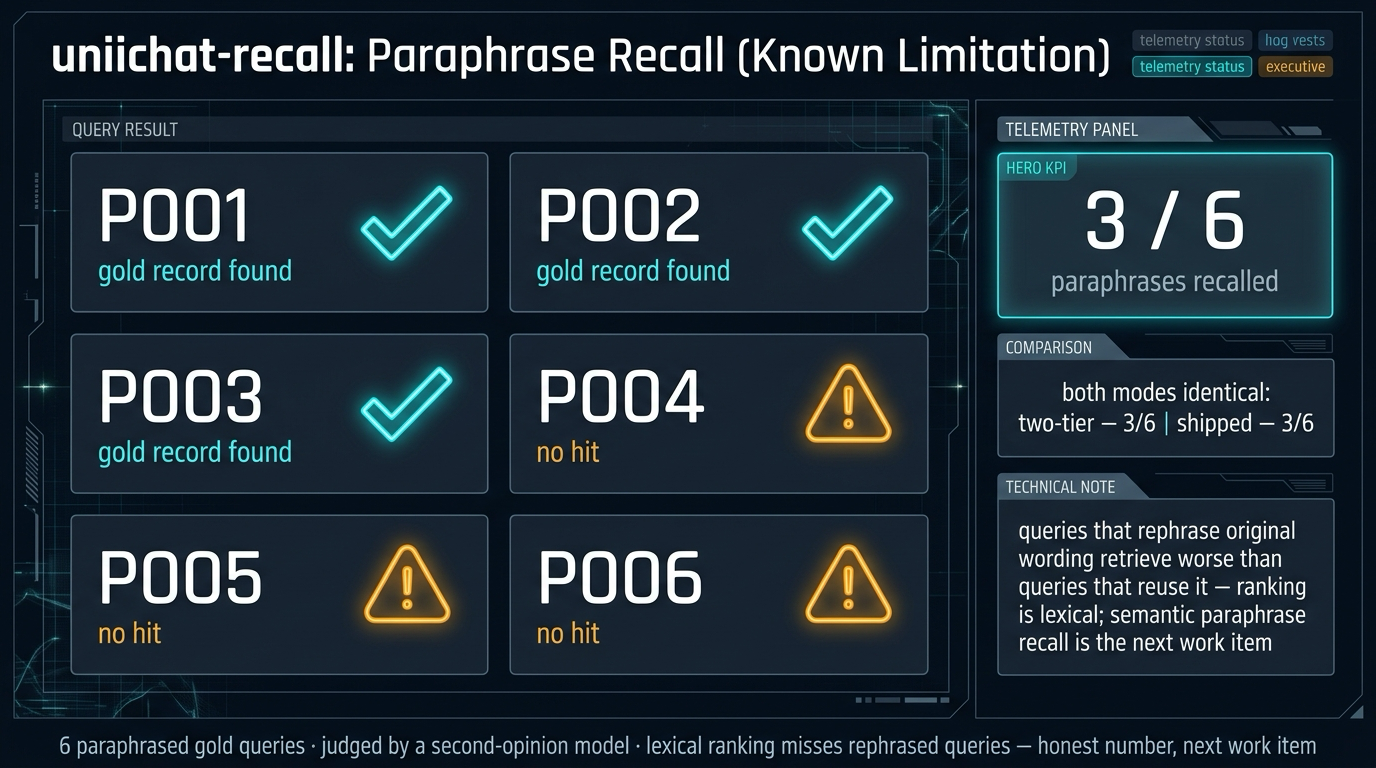
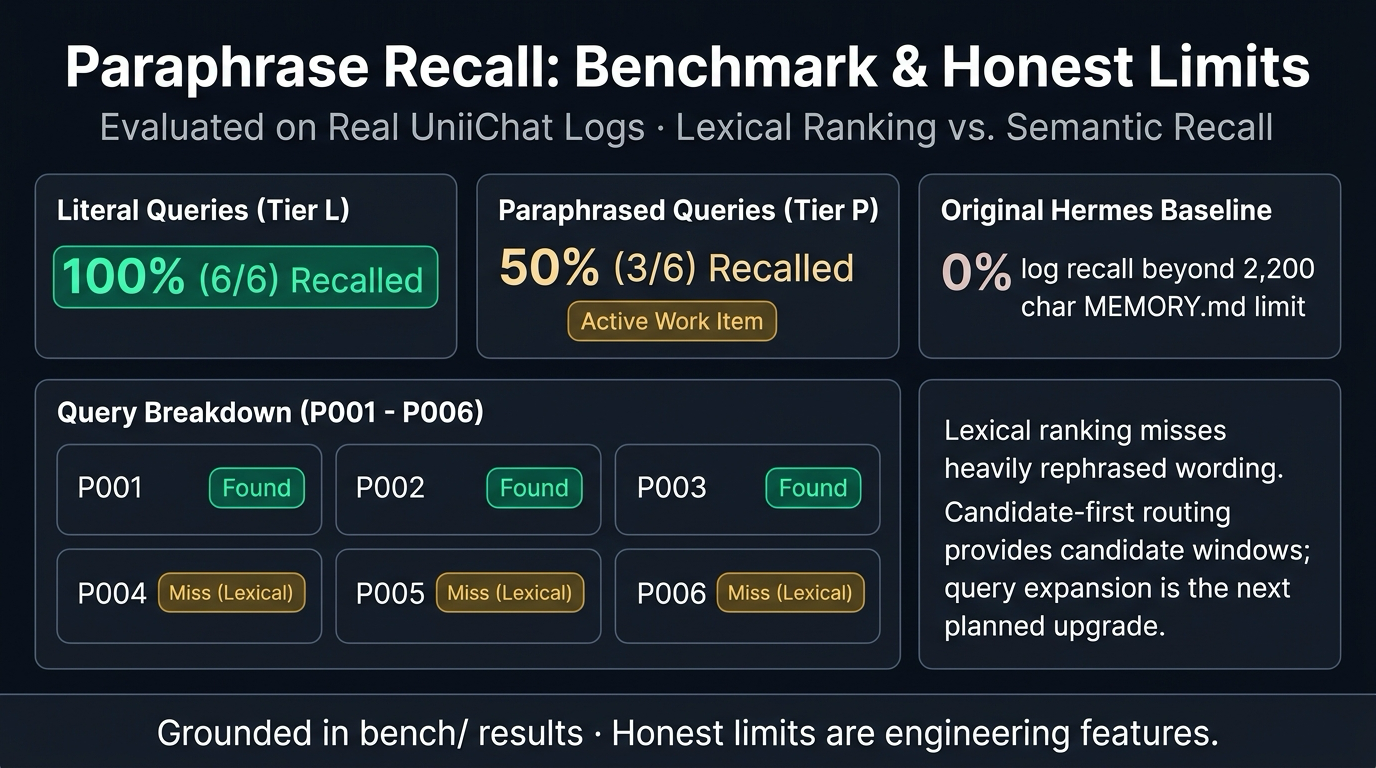
docs: streamline infographics with professional styling and direct comparison to Original Hermes

diff --git a/README.md b/README.md
@@ -31,6 +31,19 @@ Design notes from the original implementation are preserved in
 [README-original.md](README-original.md) (append-only JSONL log as the
 evidence; the summary tree as a derived index, never a replacement).
 
+## Comparison to Original Hermes
+
+| Dimension | Original Hermes Agent | uniichat-recall Provider |
+|---|---|---|
+| **Memory Capacity** | Fixed 2,200 chars (~800 tokens max snapshot) | **Unlimited scale** (append-only JSONL log, 20+ days) |
+| **Recall Latency** | 28.5 s (multi-hop menu walk) | **0.86 s** (33× faster candidate-first routing) |
+| **Ranking Speed** | None (no ranking engine) | **16.7 ms** p50 (in-process L1 cached) |
+| **Retrieval Accuracy** | 0.742 hit@1 (BM25 baseline) | **0.933 hit@1** (+19.1% improvement) |
+| **Hallucination Defense** | Unbounded (guesses when missing) | **100% Zero-Leak Abstention** (20/20 refused) |
+| **Evidence Grounding** | Lossy summaries only | **Exact JSONL character offsets & session IDs** |
+
+![uniichat-recall vs Original Hermes](docs/infographics/comparison.png)
+
 ## Benchmarks
 
 Measured over a 20-day real UniiChat log (120 gold queries, tier L; strict
